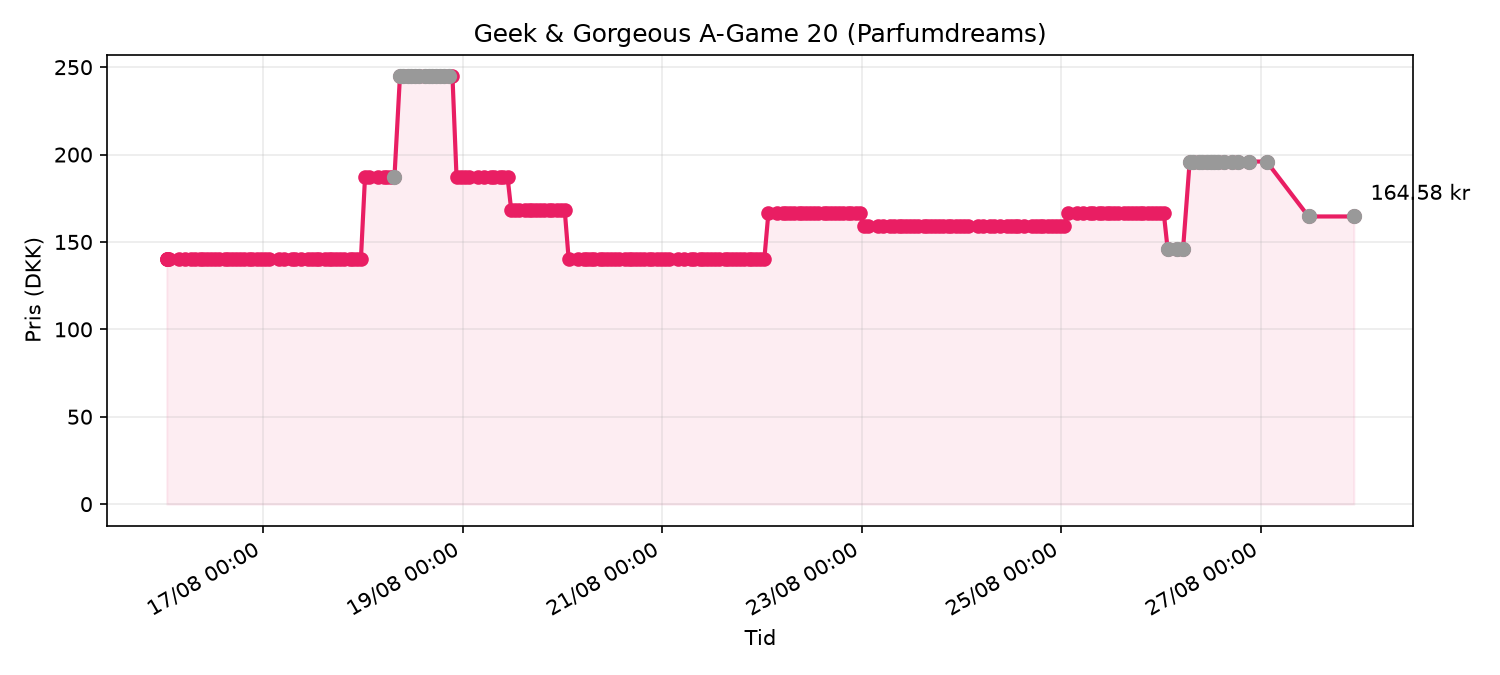
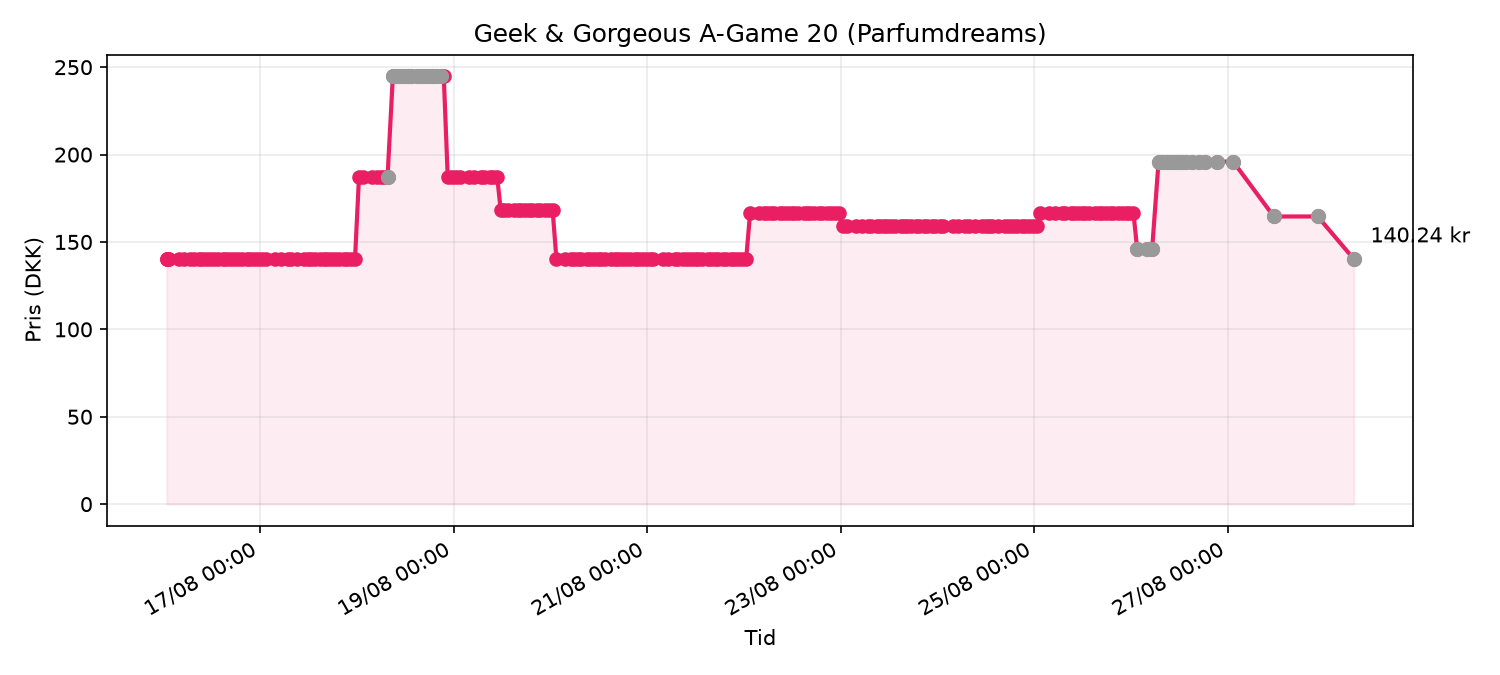
price check 2026-08-28T05:14Z

diff --git a/data/price_chart.html b/data/price_chart.html
@@ -13,7 +13,7 @@
 </head>
 <body>
   <h1>Geek & Gorgeous A-Game 20 (Parfumdreams)</h1>
-  <p class="meta">Senest tjekket: 27/08/2026 22:17 · Pris: <strong>164.58 kr</strong> · udsolgt</p>
+  <p class="meta">Senest tjekket: 28/08/2026 07:14 · Pris: <strong>140.24 kr</strong> · udsolgt</p>
   
   <p><a href="https://www.parfumdreams.dk/Geek-Gorgeous/Samlinger/101-aktive-stoffer/A-Game-20-Serum/index_137083.aspx?variation=221879">Åbn produkt på Parfumdreams</a></p>
   <img src="price_chart.png" alt="Prisgraf">
